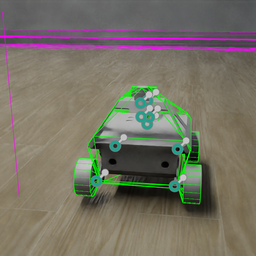
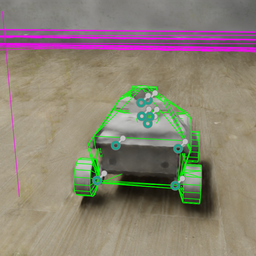
Change python node output to articulation node in unit rad/sec

diff --git a/python_node/car.diffdrive/car/diffdrive/ogn/nodes/OgnDiffDriveToWheelVelocity.py b/python_node/car.diffdrive/car/diffdrive/ogn/nodes/OgnDiffDriveToWheelVelocity.py
@@ -19,7 +19,7 @@ class OgnDiffDriveToWheelVelocity:
         left_rad = vx / radius - (separation * omega) / (2.0 * radius)
         right_rad = vx / radius + (separation * omega) / (2.0 * radius)
 
-        db.outputs.leftDegPerSec = left_rad * 180.0 / math.pi
-        db.outputs.rightDegPerSec = right_rad * 180.0 / math.pi
+        db.outputs.leftDegPerSec = left_rad
+        db.outputs.rightDegPerSec = right_rad
 
         return True
